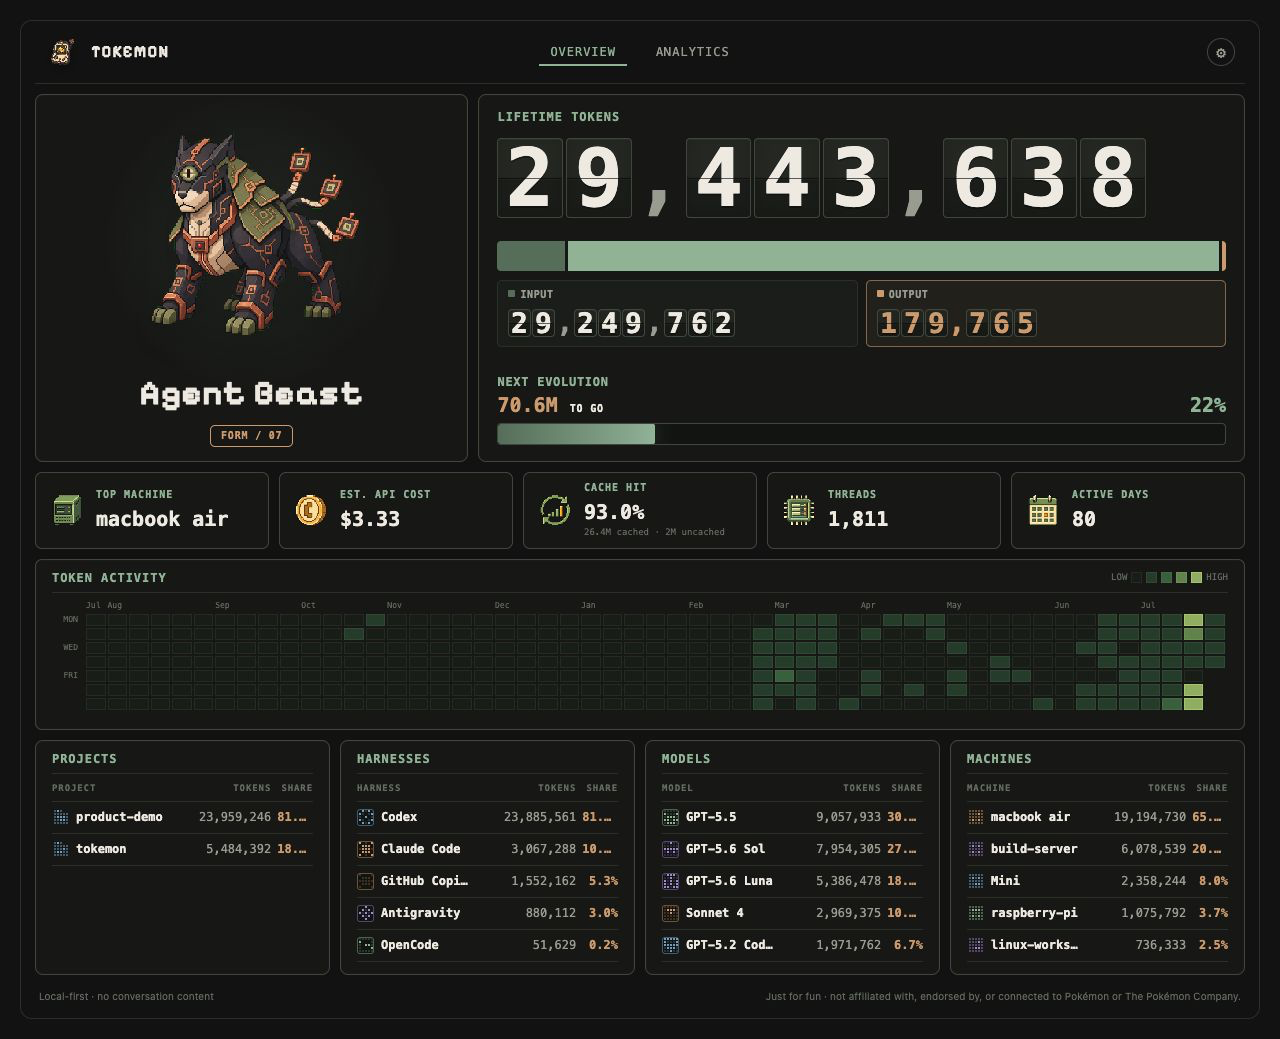
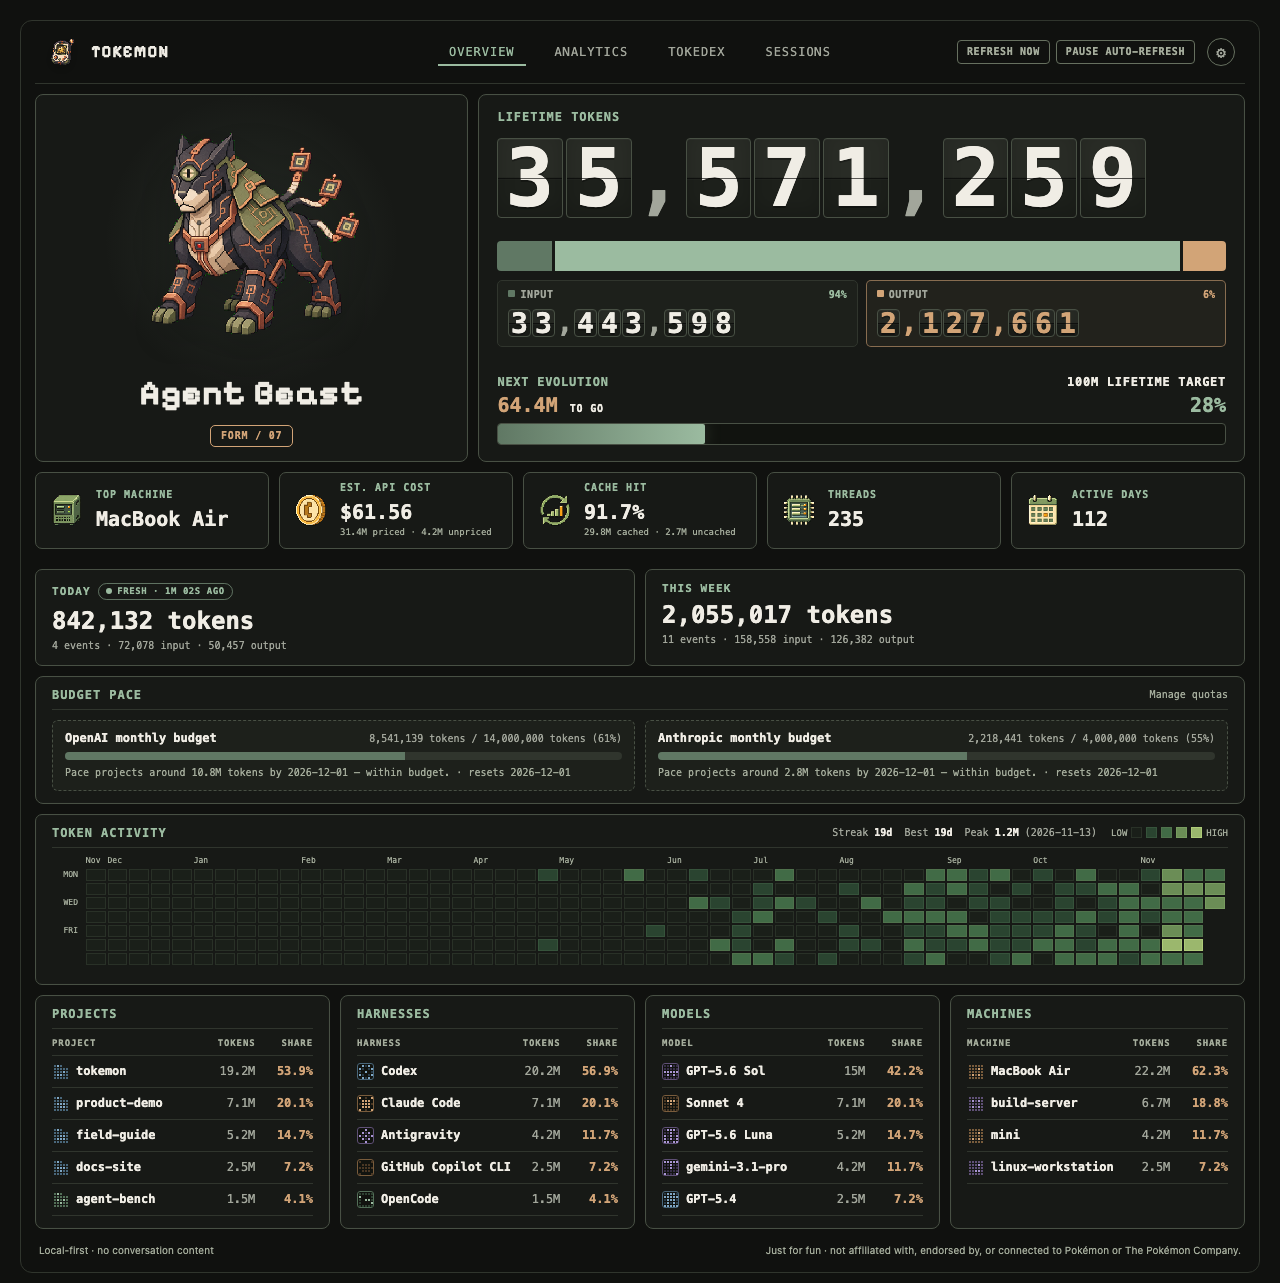
site: update marketing site and dashboard screenshot for v0.5.0
Update site versions, release links, install/clone commands, Go toolchain
requirement (1.26.11+), Codex .jsonl.zst adapter format, route summaries,
and patch notes for v0.5.0. Refresh docs/tokemon-dashboard.png and the
redacted site/public/tokemon/dashboard-sample.webp from a synthetic v0.5.0
overview showing the shared topbar, freshness pill, budget pace bars,
activity streaks, and non-truncated breakdowns, and align the SEALED stamp
and callout pins. Verified with site lint, vinext build + rendered-html
tests (5/5), tsc, next build, release-guard, and markdownlint.

diff --git a/site/app/page.tsx b/site/app/page.tsx
@@ -131,7 +131,7 @@ export default function Home() {
             <div className="heroCopy">
               <a className="releasePill" href={links.release}>
                 <span className="pillTag">NEW</span>
-                <span>v{version} · signed releases, locked dashboard</span>
+                <span>v{version} · split SQLite, live updates, editable quotas</span>
                 <Ext />
               </a>
               <p className="eyebrow">LOCAL-FIRST TOKEN GARDEN</p>
@@ -300,7 +300,7 @@ export default function Home() {
           <div className="sectionHead sectionHeadCenter">
             <p className="eyebrow">03 / THE INSTRUMENT PANEL</p>
             <h2 id="dash-title">See exactly where <em>your tokens go.</em></h2>
-            <p>Lifetime totals, token mix, a 53-week activity field, machine health, and breakdowns by project, harness, model, and machine. Quiet by default, detailed on demand.</p>
+            <p>Lifetime totals, token mix, budget pace, streaks, a 53-week activity field, machine health, and clickable breakdowns by project, harness, model, and machine. Quiet by default, detailed on demand.</p>
           </div>
 
           <figure className="showcase">
@@ -311,29 +311,29 @@ export default function Home() {
                 <span className="lock">AUTH</span>
               </div>
               <div className="browserView">
-                <img src="/tokemon/dashboard-sample.webp" alt="The Tokemon dashboard with representative sample data: lifetime token counter, input and output split, next-evolution progress, summary cards, a 53-week token activity field, and tables for projects, harnesses, models, and machines. The creature panel is redacted with a sealed silhouette." width="1280" height="1039" loading="lazy" decoding="async" />
+                <img src="/tokemon/dashboard-sample.webp" alt="The Tokemon v0.5.0 dashboard with representative sample data: lifetime token counter, input and output split, next-evolution progress, summary cards, today and week context with freshness pill, monthly budget pace bars, a 53-week token activity field with streaks, and clickable breakdown tables for projects, harnesses, models, and machines. The creature panel is redacted with a sealed silhouette." width="1280" height="1283" loading="lazy" decoding="async" />
                 <span className="redactStamp" aria-hidden="true">SEALED</span>
-                <span className="pin" style={{ "--px": "50.5%", "--py": "11.2%" } as CSSProperties} aria-hidden="true">1</span>
-                <span className="pin" style={{ "--px": "49.4%", "--py": "36.7%" } as CSSProperties} aria-hidden="true">2</span>
-                <span className="pin" style={{ "--px": "14.6%", "--py": "55.6%" } as CSSProperties} aria-hidden="true">3</span>
-                <span className="pin" style={{ "--px": "10.8%", "--py": "73%" } as CSSProperties} aria-hidden="true">4</span>
+                <span className="pin" style={{ "--px": "50.8%", "--py": "9.1%" } as CSSProperties} aria-hidden="true">1</span>
+                <span className="pin" style={{ "--px": "50.5%", "--py": "29.8%" } as CSSProperties} aria-hidden="true">2</span>
+                <span className="pin" style={{ "--px": "15.8%", "--py": "64.9%" } as CSSProperties} aria-hidden="true">3</span>
+                <span className="pin" style={{ "--px": "11.8%", "--py": "79.0%" } as CSSProperties} aria-hidden="true">4</span>
               </div>
             </div>
             <figcaption>Representative sample data. The creature panel is sealed here; on your hub it shows your current form.</figcaption>
           </figure>
 
           <ol className="legend">
-            <li><span>1</span><div><h3>Lifetime counter</h3><p>One global number with its token mix. Filters never change it.</p></div></li>
-            <li><span>2</span><div><h3>Next evolution</h3><p>Tokens to go and progress toward the next threshold.</p></div></li>
-            <li><span>3</span><div><h3>Activity field</h3><p>53 weeks of daily usage at a glance.</p></div></li>
-            <li><span>4</span><div><h3>Breakdowns</h3><p>Projects, harnesses, models, and machines with share.</p></div></li>
+            <li><span>1</span><div><h3>Lifetime counter</h3><p>One global number with its live token mix. Filters never change it.</p></div></li>
+            <li><span>2</span><div><h3>Next evolution</h3><p>Tokens to go, progress toward the next threshold, and budget pace below.</p></div></li>
+            <li><span>3</span><div><h3>Activity field</h3><p>53 weeks of daily usage with current streak, best streak, and peak day.</p></div></li>
+            <li><span>4</span><div><h3>Breakdowns</h3><p>Clickable drill-downs for projects, harnesses, models, and machines.</p></div></li>
           </ol>
 
           <ul className="routes" aria-label="Dashboard pages">
-            <li><code>/analytics</code><span>Trends, comparisons, filters, usage share over time, and export.</span></li>
-            <li><code>/tokedex</code><span>Model tiers, aliases, pricing provenance, observed usage.</span></li>
-            <li><code>/sessions</code><span>A filterable, metadata-only session timeline with export.</span></li>
-            <li><code>/insights</code><span>Deterministic, evidence-backed aggregate cards. Local by default.</span></li>
+            <li><code>/analytics</code><span>Trends, custom date ranges, cache savings, usage share over time, and export.</span></li>
+            <li><code>/tokedex</code><span>Model tiers, aliases, pricing provenance, model detail, and 30-day what-if.</span></li>
+            <li><code>/sessions</code><span>Searchable, paginated metadata-only timeline with session detail and export.</span></li>
+            <li><code>/insights</code><span>Deterministic, evidence-backed aggregate cards and 24h rhythm. Local by default.</span></li>
           </ul>
         </section>
 
@@ -427,8 +427,8 @@ export default function Home() {
           <div className="releaseLayout">
             <div className="sectionHead">
               <p className="eyebrow">07 / PATCH NOTES</p>
-              <h2 id="release-title">v{version}: locked, signed, <em>catalogued.</em></h2>
-              <p>The first signed Tokemon release. It also ships the 0.3.3 changes, which were tagged but never published.</p>
+              <h2 id="release-title">v{version}: faster, live, <em>self-keeping.</em></h2>
+              <p>Split SQLite pools and single-pass analytics cut warm request latency to milliseconds, while every dashboard page gains shared chrome, live ETag updates, editable quotas, and deeper per-model and per-session views.</p>
               <a className="textLink" href={links.release}>Latest release <Ext /></a>
               <a className="textLink" href={links.changelog}>Full changelog <Ext /></a>
             </div>
@@ -501,7 +501,7 @@ export default function Home() {
                 <li>Hub: Docker with Compose</li>
                 <li>Agents: macOS or Linux, arm64 or amd64</li>
                 <li>Installer requires Cosign</li>
-                <li>From source: Go 1.26.9+</li>
+                <li>From source: Go 1.26.11+</li>
               </ul>
               <div className="installLinks">
                 <a className="button buttonPrimary" href={links.release}>Download v{version} <Ext /></a>

diff --git a/site/app/_components/content.ts b/site/app/_components/content.ts
@@ -1,11 +1,11 @@
 // Facts for the landing page. Every value here is sourced from the repository:
 // thresholds and names from internal/evolution/evolution.go, adapters from
-// internal/adapters/builtin, release details from CHANGELOG.md (0.4.0) and
+// internal/adapters/builtin, release details from CHANGELOG.md (0.5.0) and
 // DEPLOYMENT.md, and the event shape from docs/tokemon-spec-v0.2.md §13.
 
 export const links = {
   repo: "https://github.com/carteakey/tokemon",
-  release: "https://github.com/carteakey/tokemon/releases/tag/v0.4.2",
+  release: "https://github.com/carteakey/tokemon/releases/tag/v0.5.0",
   deployment: "https://github.com/carteakey/tokemon/blob/main/DEPLOYMENT.md",
   license: "https://github.com/carteakey/tokemon/blob/main/LICENSE",
   spec: "https://github.com/carteakey/tokemon/blob/main/docs/tokemon-spec-v0.2.md",
@@ -14,7 +14,7 @@ export const links = {
   catalog: "https://github.com/carteakey/tokemon/blob/main/catalog/models.yaml",
 } as const;
 
-export const version = "0.4.0";
+export const version = "0.5.0";
 
 export type Specimen = {
   stage: string;
@@ -83,7 +83,7 @@ export type Adapter = { no: string; name: string; id: string; habitat: string; f
 
 export const adapters: Adapter[] = [
   { no: "01", name: "Claude Code", id: "claude-code", habitat: "~/.claude/projects", format: "JSONL", enabled: "Default on" },
-  { no: "02", name: "Codex", id: "codex", habitat: "~/.codex/sessions", format: "JSONL + SQLite", enabled: "Default on" },
+  { no: "02", name: "Codex", id: "codex", habitat: "~/.codex/sessions", format: "JSONL / .zst + SQLite", enabled: "Default on" },
   { no: "03", name: "GitHub Copilot CLI", id: "copilot-cli", habitat: "~/.copilot/session-state", format: "JSONL", enabled: "Default on" },
   { no: "04", name: "OpenCode", id: "opencode", habitat: "opencode.db", format: "SQLite", enabled: "Default on" },
   { no: "05", name: "Antigravity", id: "antigravity", habitat: "~/.gemini/antigravity*", format: "SQLite", enabled: "Default on" },
@@ -94,13 +94,14 @@ export const adapters: Adapter[] = [
 ];
 
 export const releaseNotes = [
-  { tag: "AUTH", title: "Locked dashboard", copy: "Dashboard pages, read APIs, and /metrics require Basic or Bearer auth. /healthz stays open for liveness checks." },
-  { tag: "SIGNED", title: "Signed release assets", copy: "Every archive, the checksums, and the SPDX SBOM are signed with keyless Cosign. The installer refuses anything unsigned." },
-  { tag: "GUARD", title: "Outbound privacy guard", copy: "One guard for tokemon inspect and every upload rejects content, credentials, tool arguments, full paths, and titles before a request opens." },
-  { tag: "/TOKEDEX", title: "Model catalog page", copy: "Bundled YAML model tiers, aliases, pricing provenance, and observed usage context." },
-  { tag: "/SESSIONS", title: "Session timeline", copy: "A filterable, metadata-only session timeline with export." },
-  { tag: "SHARE", title: "Usage share over time", copy: "Analytics shows the top five harnesses, providers, models, or machines per window, plus aggregated Others." },
-  { tag: "BACKUP", title: "Backups that restore", copy: "tokemon backup create, verify, and restore: WAL-safe versioned SQLite snapshots with retention." },
+  { tag: "SPEED", title: "Split SQLite & single-pass analytics", copy: "Dedicated read-only pools, incremental facets, SWR caches, gzip, and pre-rendered overview pages cut warm request latency to milliseconds." },
+  { tag: "LIVE UI", title: "Shared chrome & in-place refresh", copy: "Unified styles across all pages, clickable drill-downs from overview and charts, active filter pills, and ETag-driven live updates without full-page reloads." },
+  { tag: "QUOTAS", title: "Editable SQLite budgets & pace", copy: "Create and edit token or spend quotas in /settings, track period pace on /, and enable optional overage alerts with non-overlapping attribution." },
+  { tag: "ANALYTICS", title: "Cache savings, $/1M & streaks", copy: "Estimated cache savings, effective $/1M tokens, per-dimension cache hit rates, custom from/to date ranges, and daily activity streaks." },
+  { tag: "/SESSIONS", title: "Search, pagination & detail view", copy: "Filter metadata-only sessions by project or query, paginate cleanly, and inspect any session on its own /sessions/<id> page." },
+  { tag: "/TOKEDEX", title: "Model detail & 30-day what-if", copy: "Dedicated /tokedex/<model> pages with observed breakdowns, pricing provenance, and 30-day what-if cost comparisons across catalog models." },
+  { tag: "ADAPTERS", title: "Zstd rollouts & cache accounting", copy: "Codex reads .jsonl.zst archived rollouts, Claude distinguishes claude-desktop, and Antigravity captures cache_read_tokens and reasoning_tokens." },
+  { tag: "CLI + SVG", title: "Terminal status, auto-backups & card", copy: "Check hub health with tokemon status (--short/--json), run built-in daily WAL-safe SQLite backups, and fetch an authenticated /api/v1/card.svg." },
 ];
 
 export const trust = [
@@ -129,7 +130,7 @@ docker compose -f deploy/docker-compose.yml up -d --build
 curl --fail http://localhost:18787/healthz`;
 
 export const agentCommand = `bash deploy/install-agent.sh \\
-  --version 0.4.0 \\
+  --version 0.5.0 \\
   --server https://tokemon.example.ts.net \\
   --machine-id laptop \\
   --adapters claude-code,codex \\
@@ -137,7 +138,7 @@ export const agentCommand = `bash deploy/install-agent.sh \\
 replace-with-a-generated-secret
 TOKEN`;
 
-export const cloneCommand = `git clone --branch v0.4.2 https://github.com/carteakey/tokemon.git
+export const cloneCommand = `git clone --branch v0.5.0 https://github.com/carteakey/tokemon.git
 cd tokemon`;
 
 export const localCommand = `go run ./cmd/tokemon serve --addr 127.0.0.1:8080 \\

diff --git a/site/app/globals.css b/site/app/globals.css
@@ -258,7 +258,7 @@ h1 em::after { content: ""; position: absolute; left: 0.04em; right: 0.3em; bott
 .lock { padding: 3px 7px; border: 1px solid rgba(155, 187, 160, 0.5); border-radius: 4px; color: var(--accent); font: 700 10px var(--font-mono); letter-spacing: 0.14em; }
 .browserView { position: relative; }
 .browserView img { width: 100%; }
-.redactStamp { position: absolute; left: 19.6%; top: 33%; padding: 0.2em 0.5em; border: 2px solid var(--warm); border-radius: 4px; background: rgba(16, 17, 15, 0.75); color: var(--warm); font: 700 clamp(10px, 1.7vw, 21px)/1.2 var(--font-display); letter-spacing: 0.16em; transform: translate(-50%, -50%) rotate(-9deg); box-shadow: 0 0 24px rgba(210, 164, 119, 0.25); }
+.redactStamp { position: absolute; left: 19.7%; top: 30.3%; padding: 0.2em 0.5em; border: 2px solid var(--warm); border-radius: 4px; background: rgba(16, 17, 15, 0.75); color: var(--warm); font: 700 clamp(10px, 1.7vw, 21px)/1.2 var(--font-display); letter-spacing: 0.16em; transform: translate(-50%, -50%) rotate(-9deg); box-shadow: 0 0 24px rgba(210, 164, 119, 0.25); }
 .pin { position: absolute; left: var(--px); top: var(--py); display: grid; width: clamp(16px, 2.3vw, 28px); aspect-ratio: 1; place-items: center; border-radius: 50%; background: var(--warm); color: #14110c; font: 700 clamp(10px, 1.2vw, 14px)/1 var(--font-display); transform: translate(-50%, -50%); box-shadow: 0 0 0 4px rgba(210, 164, 119, 0.25); }
 .pin::after { content: ""; position: absolute; inset: -4px; border: 2px solid var(--warm); border-radius: 50%; animation: ping 2.6s ease-out infinite; }
 .showcase figcaption { margin-top: 22px; color: var(--faint); font: 500 12.5px var(--font-mono); text-align: center; }

diff --git a/DEPLOYMENT.md b/DEPLOYMENT.md
@@ -368,7 +368,7 @@ Use the shared installer to install a checksum-verified release binary and a use
 
 ```bash
 bash deploy/install-agent.sh \
-  --version 0.4.0 \
+  --version 0.5.0 \
   --server https://tokemon.example.ts.net \
   --machine-id laptop \
   --adapters claude-code,codex \
@@ -379,7 +379,7 @@ TOKEN
 
 The installer selects the matching macOS or Linux architecture, writes a mode-`0600` configuration, preserves the local state database across upgrades, and installs launchd or systemd without requiring root. Use a private server base URL; the installer adds the API paths itself.
 
-For a locally built binary, replace `--version 0.4.0` with `--binary ./tokemon`:
+For a locally built binary, replace `--version 0.5.0` with `--binary ./tokemon`:
 
 ```bash
 bash deploy/install-agent.sh \

diff --git a/site/README.md b/site/README.md
@@ -37,7 +37,7 @@ npm run lint
 ## Release links
 
 - [Tokemon source repository](https://github.com/carteakey/tokemon)
-- [Latest Tokemon release](https://github.com/carteakey/tokemon/releases/tag/v0.4.3)
+- [Latest Tokemon release](https://github.com/carteakey/tokemon/releases/tag/v0.5.0)
 - [Public deployment guide](https://github.com/carteakey/tokemon/blob/main/DEPLOYMENT.md)
 - [MIT license](https://github.com/carteakey/tokemon/blob/main/LICENSE)
 

diff --git a/README.md b/README.md
@@ -20,7 +20,7 @@ Tools without a native provider can use Tokemon's generic event import path.
 
 ## Run locally
 
-Requires Go 1.26.9 or newer.
+Requires Go 1.26.11 or newer.
 
 Start the dashboard:
 
